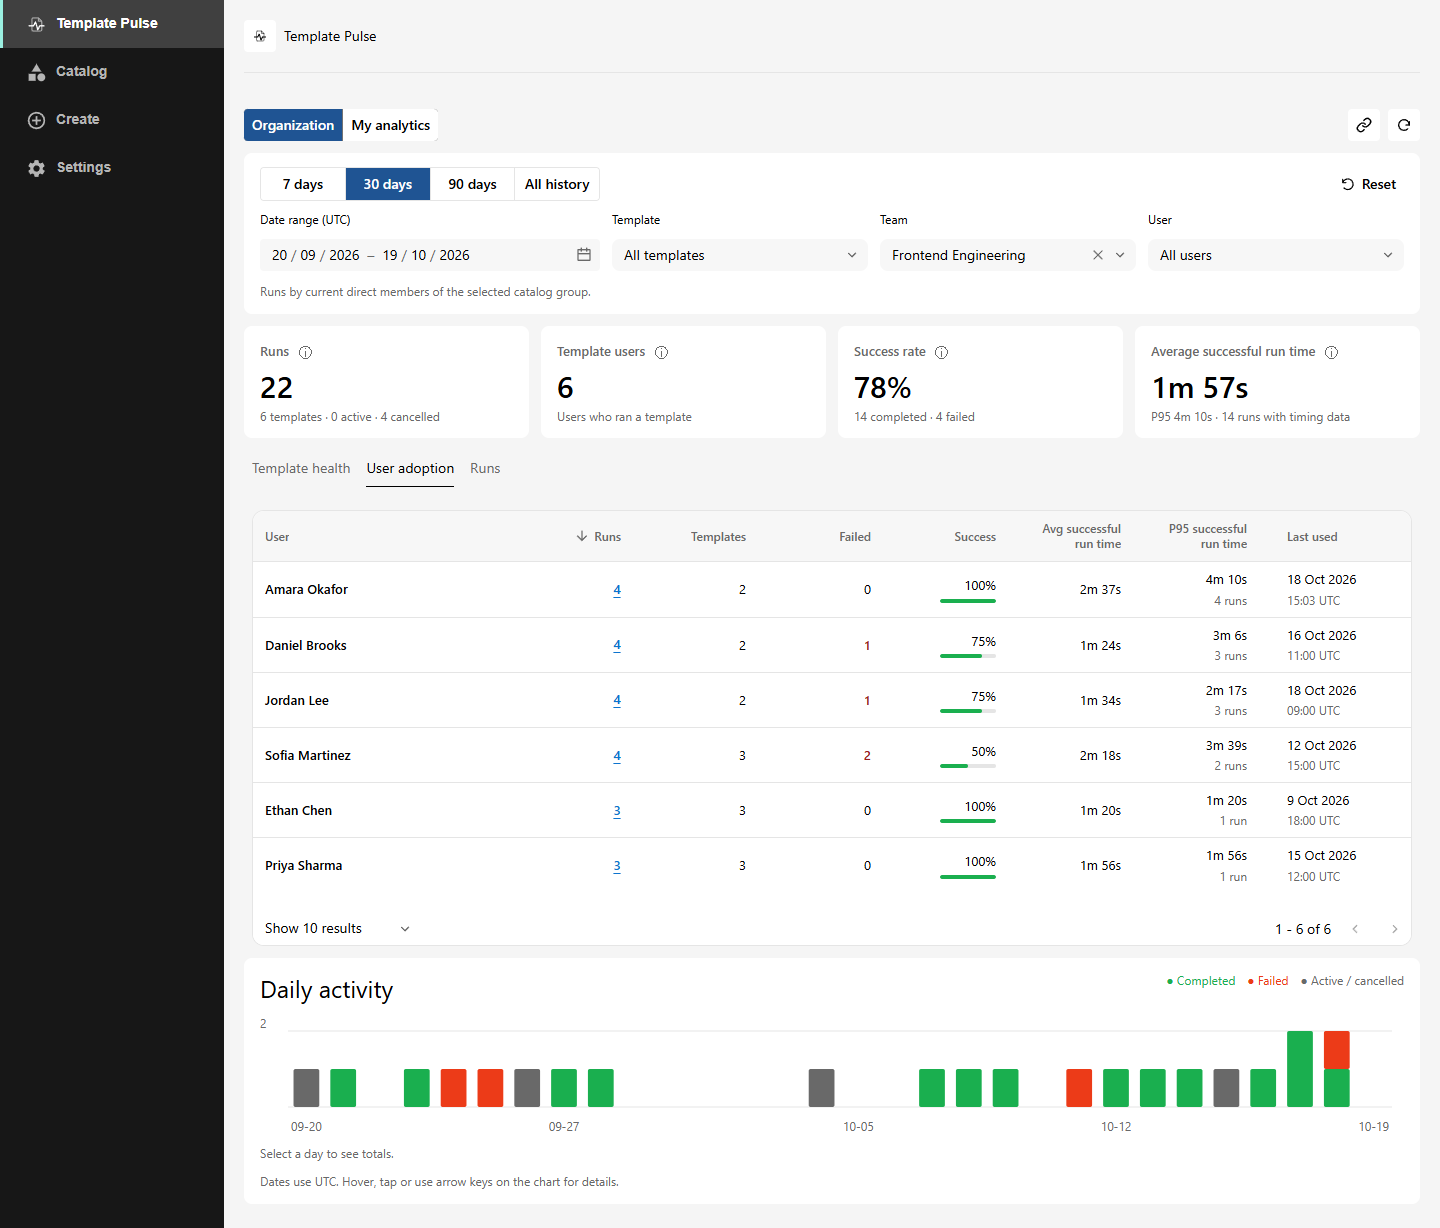
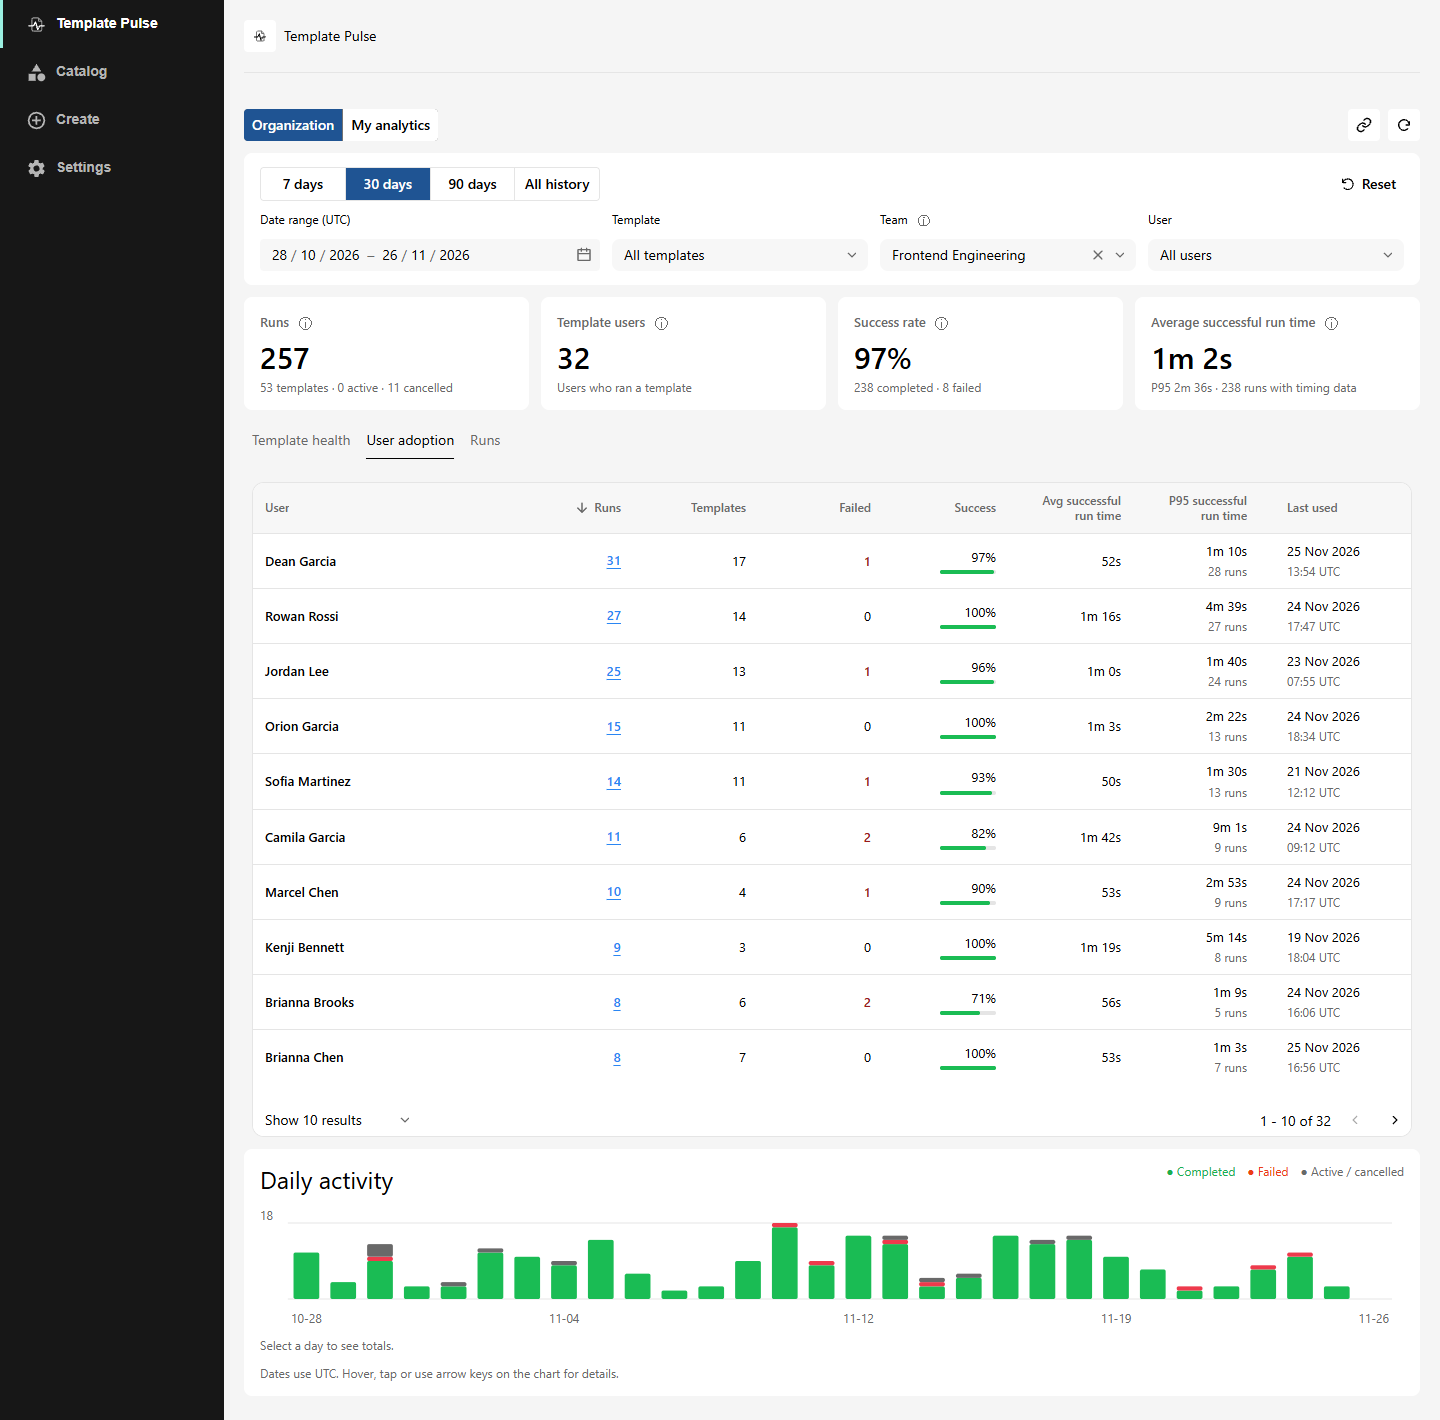
fix: clarify analytics filter hints and refresh screenshots

diff --git a/plugins/template-pulse/src/FilterControls.tsx b/plugins/template-pulse/src/FilterControls.tsx
@@ -1,15 +1,15 @@
-import { useEffect, useState } from 'react';
+import { useEffect, useId, useState } from 'react';
 import {
   Button,
   ButtonIcon,
   Select,
-  SelectItemText,
   Text,
   Tooltip,
   TooltipTrigger,
   type SelectSearch,
 } from '@backstage/ui';
 import { parseEntityRef } from '@backstage/catalog-model';
+import { InfoTooltip } from './InfoTooltip';
 
 export function ClearIcon() {
   return (
@@ -70,6 +70,7 @@ export type EntityFilterSearch = (
 
 export function EntityFilterSelect({
   label,
+  labelHelp,
   value,
   options,
   onChange,
@@ -77,12 +78,14 @@ export function EntityFilterSelect({
   hasMore = false,
 }: {
   label: string;
+  labelHelp?: string;
   value: string;
   options: EntityFilterOption[];
   onChange: (value: string) => void;
   loadOptions?: EntityFilterSearch;
   hasMore?: boolean;
 }) {
+  const labelId = useId();
   const [search, setSearch] = useState('');
   const [loading, setLoading] = useState(false);
   const [failed, setFailed] = useState(false);
@@ -138,12 +141,17 @@ export function EntityFilterSelect({
         ...new Map(
           [
             ...options.filter(item => item.id === 'any' || item.id === value),
-            ...(page?.items ?? (search ? [] : options)),
+            ...(page?.items ?? (search.trim() ? [] : options)),
           ].map(item => [item.id, retainLabel(item)]),
         ).values(),
       ]
     : options;
-  const moreOptions = page?.hasMore ?? hasMore;
+  let optionsHint: string | undefined;
+  if (loadOptions && !loading && !failed) {
+    if (page?.hasMore) optionsHint = 'Refine your search';
+    else if (!search.trim() && hasMore)
+      optionsHint = 'Type to find more options';
+  }
   let searchConfig: SelectSearch<EntityFilterOption> | undefined;
   if (loadOptions) {
     searchConfig = {
@@ -161,21 +169,31 @@ export function EntityFilterSelect({
           .includes(query.toLowerCase()),
     };
   }
-  let statusMessage = 'More matches available. Refine your search.';
-  if (loading) statusMessage = 'Searching…';
-  if (failed) statusMessage = 'Options could not be loaded. ';
-
   const select = (
     <div
       className="template-pulse-analytics-clearable-select"
       data-active={value !== 'any' || undefined}
     >
+      {labelHelp && (
+        <div className="template-pulse-analytics-select-label">
+          <span id={labelId}>{label}</span>
+          <InfoTooltip
+            label={`About ${label.toLowerCase()} filter`}
+            text={labelHelp}
+          />
+        </div>
+      )}
       <Select
-        label={label}
+        label={labelHelp ? undefined : label}
+        aria-labelledby={labelHelp ? labelId : undefined}
         size="small"
         selectionMode="single"
         value={value}
-        items={visibleOptions}
+        options={
+          optionsHint
+            ? [{ title: optionsHint, options: visibleOptions }]
+            : visibleOptions
+        }
         loading={
           loadOptions ? { state: loading ? 'filtering' : 'idle' } : undefined
         }
@@ -186,15 +204,7 @@ export function EntityFilterSelect({
             setSelectedOption(visibleOptions.find(item => item.id === next));
           onChange(next);
         }}
-      >
-        {item => (
-          <SelectItemText
-            id={item.id}
-            title={item.label}
-            description={item.description}
-          />
-        )}
-      </Select>
+      />
       {value !== 'any' && (
         <TooltipTrigger delay={200}>
           <ButtonIcon
@@ -214,10 +224,10 @@ export function EntityFilterSelect({
   return (
     <div>
       {select}
-      {(loading || failed || moreOptions) && (
+      {(loading || failed) && (
         <div role={failed ? 'alert' : 'status'}>
           <Text variant="body-small" color="secondary">
-            {statusMessage}
+            {failed ? 'Options could not be loaded. ' : 'Searching…'}
           </Text>
           {failed && (
             <Button

diff --git a/plugins/template-pulse/src/AnalyticsSummary.tsx b/plugins/template-pulse/src/AnalyticsSummary.tsx
@@ -1,16 +1,7 @@
-import { useEffect, useRef, useState } from 'react';
-import {
-  ButtonIcon,
-  Card,
-  CardBody,
-  Flex,
-  Skeleton,
-  Text,
-  Tooltip,
-  TooltipTrigger,
-} from '@backstage/ui';
+import { Card, CardBody, Flex, Skeleton, Text } from '@backstage/ui';
 import type { ExecutionMetrics } from '@abayramli/backstage-plugin-template-pulse-common';
 import { formatDuration, formatRate } from './history';
+import { InfoTooltip } from './InfoTooltip';
 
 export function AnalyticsSkeleton() {
   return (
@@ -65,50 +56,12 @@ function Metric({
   hint: string;
   explanation: string;
 }) {
-  const [isExplanationOpen, setExplanationOpen] = useState(false);
-  const infoRef = useRef<HTMLButtonElement>(null);
-  const explanationRef = useRef<HTMLDivElement>(null);
-
-  useEffect(() => {
-    if (!isExplanationOpen) return undefined;
-
-    const dismissOnOutsidePress = (event: PointerEvent) => {
-      if (
-        event.target instanceof Node &&
-        !infoRef.current?.contains(event.target) &&
-        !explanationRef.current?.contains(event.target)
-      ) {
-        setExplanationOpen(false);
-      }
-    };
-
-    document.addEventListener('pointerdown', dismissOnOutsidePress, true);
-    return () =>
-      document.removeEventListener('pointerdown', dismissOnOutsidePress, true);
-  }, [isExplanationOpen]);
-
   return (
     <Card className="template-pulse-analytics-metric">
       <CardBody>
         <div className="template-pulse-analytics-metric-label">
           <span>{label}</span>
-          <TooltipTrigger
-            delay={200}
-            isOpen={isExplanationOpen}
-            onOpenChange={setExplanationOpen}
-            shouldCloseOnPress={false}
-          >
-            <ButtonIcon
-              ref={infoRef}
-              className="template-pulse-analytics-metric-info"
-              size="small"
-              variant="tertiary"
-              aria-label={`About ${label}`}
-              icon={<span aria-hidden="true">ⓘ</span>}
-              onPress={() => setExplanationOpen(open => !open)}
-            />
-            <Tooltip ref={explanationRef}>{explanation}</Tooltip>
-          </TooltipTrigger>
+          <InfoTooltip label={`About ${label}`} text={explanation} />
         </div>
         <Text className="template-pulse-analytics-metric-value" weight="bold">
           {value}

diff --git a/plugins/template-pulse/src/InfoTooltip.tsx b/plugins/template-pulse/src/InfoTooltip.tsx
@@ -1,0 +1,46 @@
+import { useEffect, useRef, useState } from 'react';
+import { ButtonIcon, Tooltip, TooltipTrigger } from '@backstage/ui';
+
+export function InfoTooltip({ label, text }: { label: string; text: string }) {
+  const [isOpen, setOpen] = useState(false);
+  const buttonRef = useRef<HTMLButtonElement>(null);
+  const tooltipRef = useRef<HTMLDivElement>(null);
+
+  useEffect(() => {
+    if (!isOpen) return undefined;
+
+    const dismissOnOutsidePress = (event: PointerEvent) => {
+      if (
+        event.target instanceof Node &&
+        !buttonRef.current?.contains(event.target) &&
+        !tooltipRef.current?.contains(event.target)
+      ) {
+        setOpen(false);
+      }
+    };
+
+    document.addEventListener('pointerdown', dismissOnOutsidePress, true);
+    return () =>
+      document.removeEventListener('pointerdown', dismissOnOutsidePress, true);
+  }, [isOpen]);
+
+  return (
+    <TooltipTrigger
+      delay={200}
+      isOpen={isOpen}
+      onOpenChange={setOpen}
+      shouldCloseOnPress={false}
+    >
+      <ButtonIcon
+        ref={buttonRef}
+        className="template-pulse-analytics-info"
+        size="small"
+        variant="tertiary"
+        aria-label={label}
+        icon={<span aria-hidden="true">ⓘ</span>}
+        onPress={() => setOpen(open => !open)}
+      />
+      <Tooltip ref={tooltipRef}>{text}</Tooltip>
+    </TooltipTrigger>
+  );
+}

diff --git a/plugins/template-pulse/src/DashboardFilters.tsx b/plugins/template-pulse/src/DashboardFilters.tsx
@@ -321,6 +321,11 @@ export function DashboardFilters({
             {scope === 'all' && (
               <EntityFilterSelect
                 label="Team"
+                labelHelp={
+                  team !== 'any'
+                    ? 'Shows runs by people who are currently direct members of this team.'
+                    : undefined
+                }
                 value={team}
                 onChange={value => onChange({ team: value, user: 'any' })}
                 options={[{ id: 'any', label: 'All teams' }, ...teamOptions]}
@@ -340,11 +345,6 @@ export function DashboardFilters({
           {scope === 'all' && teamsError && (
             <Text variant="body-small" color="secondary" role="status">
               Teams could not be loaded. Refresh to try again.
-            </Text>
-          )}
-          {team !== 'any' && (
-            <Text variant="body-small" color="secondary">
-              Runs by current direct members of the selected catalog group.
             </Text>
           )}
         </section>

diff --git a/plugins/template-pulse/src/dashboard.css b/plugins/template-pulse/src/dashboard.css
@@ -22,6 +22,20 @@
   width: 100%;
 }
 
+.template-pulse-analytics-select-label {
+  display: flex;
+  align-items: center;
+  gap: var(--bui-space-1);
+  margin-bottom: var(--bui-space-3);
+  color: var(--bui-fg-primary);
+  font-size: var(--bui-font-size-2);
+  line-height: 1.15;
+}
+
+.template-pulse-analytics-select-label .template-pulse-analytics-info {
+  margin-block: -6px;
+}
+
 .template-pulse-analytics-clearable-select[data-active] .bui-SelectValue {
   padding-right: 28px;
   box-sizing: border-box;
@@ -275,11 +289,11 @@
   font-weight: 500;
 }
 
-.template-pulse-analytics-metric .template-pulse-analytics-metric-info {
+.template-pulse-analytics-page .template-pulse-analytics-info {
   width: 24px;
   height: 24px;
   border-radius: 50%;
-  color: inherit;
+  color: var(--bui-fg-secondary);
 }
 
 .template-pulse-analytics-metric-value {
